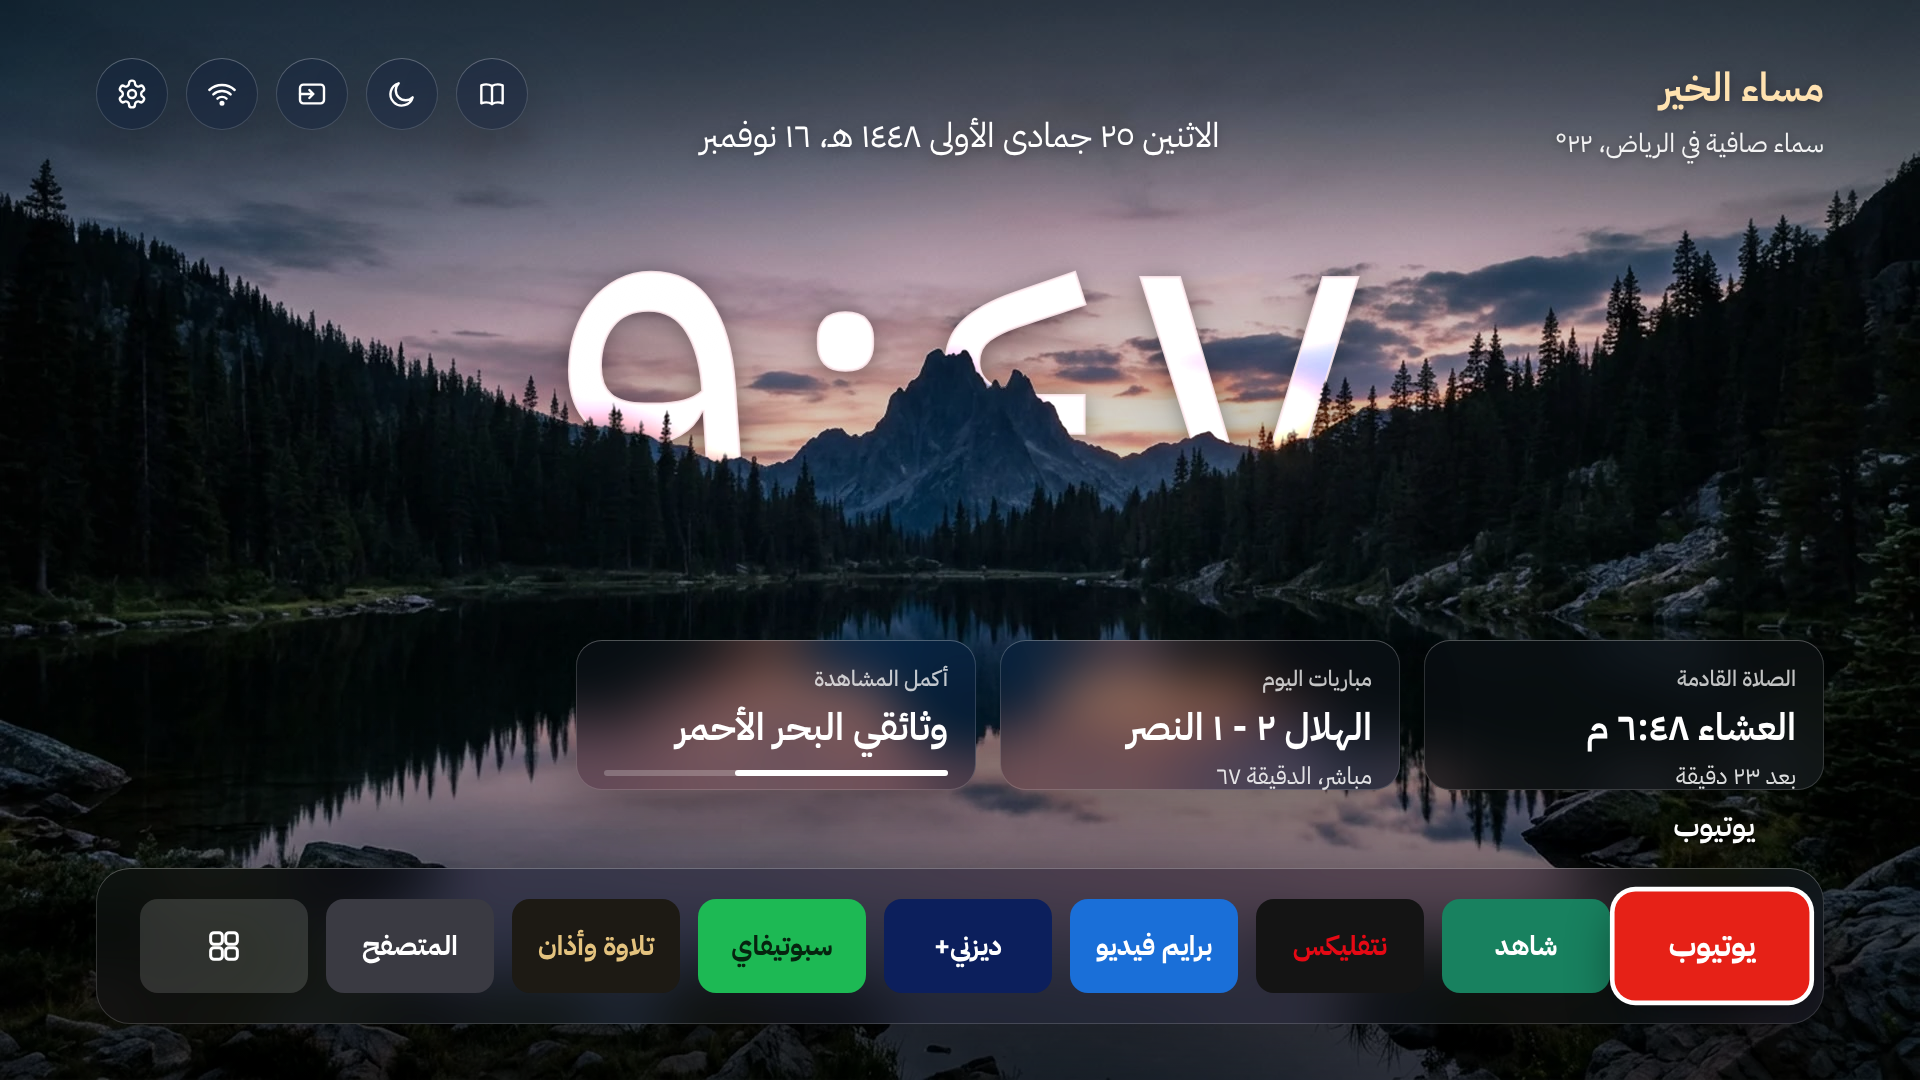
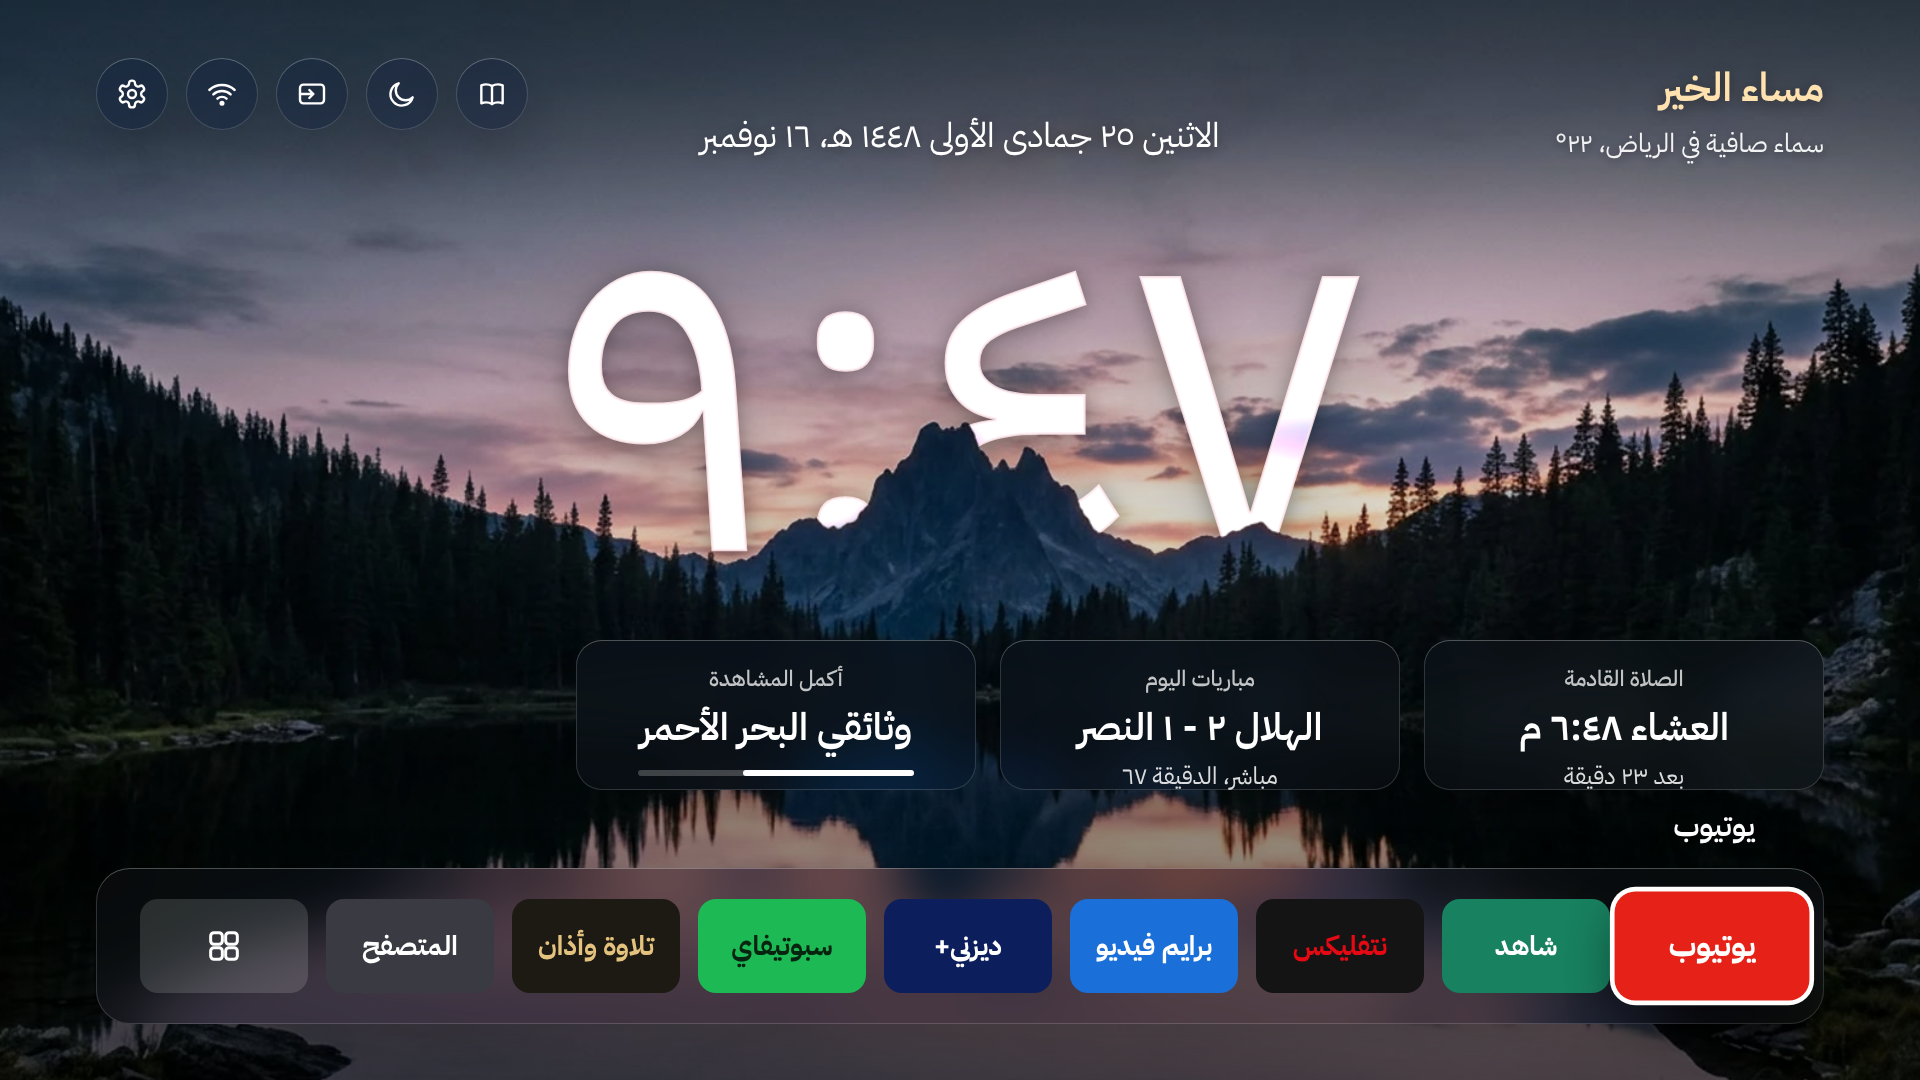
Mockups: the scenes home with the cards' text centred and the picture lowered under the same clock (more of the digits above the scenery); Riyadh under the rule and at x1.25

diff --git a/docs/mockups/README.md b/docs/mockups/README.md
@@ -83,3 +83,11 @@
 
 [apps-focus-style.png](apps-focus-style.png): فوق «إطار» (اليوم والأصل): المحدد بإطار بلون الشكل ولمعة، واسمه فوق الشريط. تحت «تكبير وظل» (يشغّله «شكل كنبة»):
 المحدد يكبر قليلاً بظل ناعم بلا إطار، واسمه تحته، والباقي بلا كتابة. البطاقات في النموذج ألوان بأسماء عامة؛ في التلفزيون كل تطبيق بشعاره الرسمي كما اليوم.
+
+## الساعة تبان أكثر فوق المشهد (ملاحظة المالك)
+
+الساعة في مكانها، والصورة (وقناعها والزجاج داخل الأرقام) تنزل بتكبير بسيط من أعلى الوسط، فلا يبقى شريط فارغ. القاعدة: الجزء الظاهر من الأرقام فوق المشهد
+يزيد ٢٠ نقطة، إلى ٩٠٪ بالأكثر حتى يبقى المشهد قدّام أسفل الأرقام؛ والمشهد اللي يظهر منه ٩٠٪ أو أكثر يبقى كما هو.
+- [home-night.png](home-night.png): نص البطاقات في الوسط، والظاهر من الأرقام من ٥٥٪ إلى ٧٥٪ (تكبير ×١٫٢١).
+- [looks-urtv-glass-riyadh.png](looks-urtv-glass-riyadh.png): الرياض يظهر منها ٩٢٪ أصلًا، فتبقى كما هي.
+  [looks-urtv-glass-riyadh-z125.png](looks-urtv-glass-riyadh-z125.png) للمقارنة: نفس الصورة بتكبير ×١٫٢٥ (البرج أقل قدّام الأرقام).
